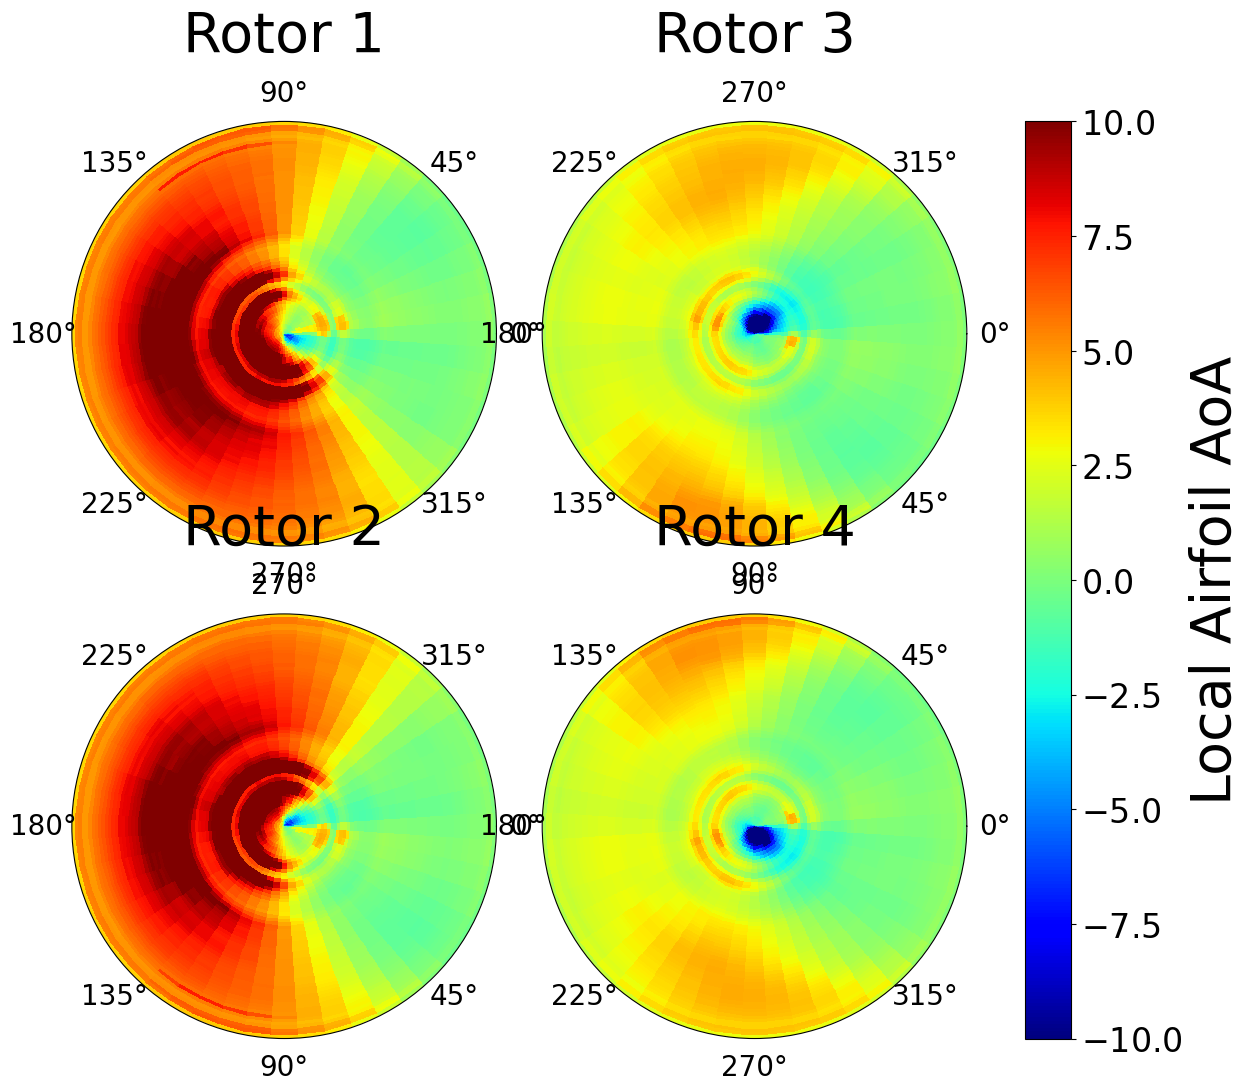
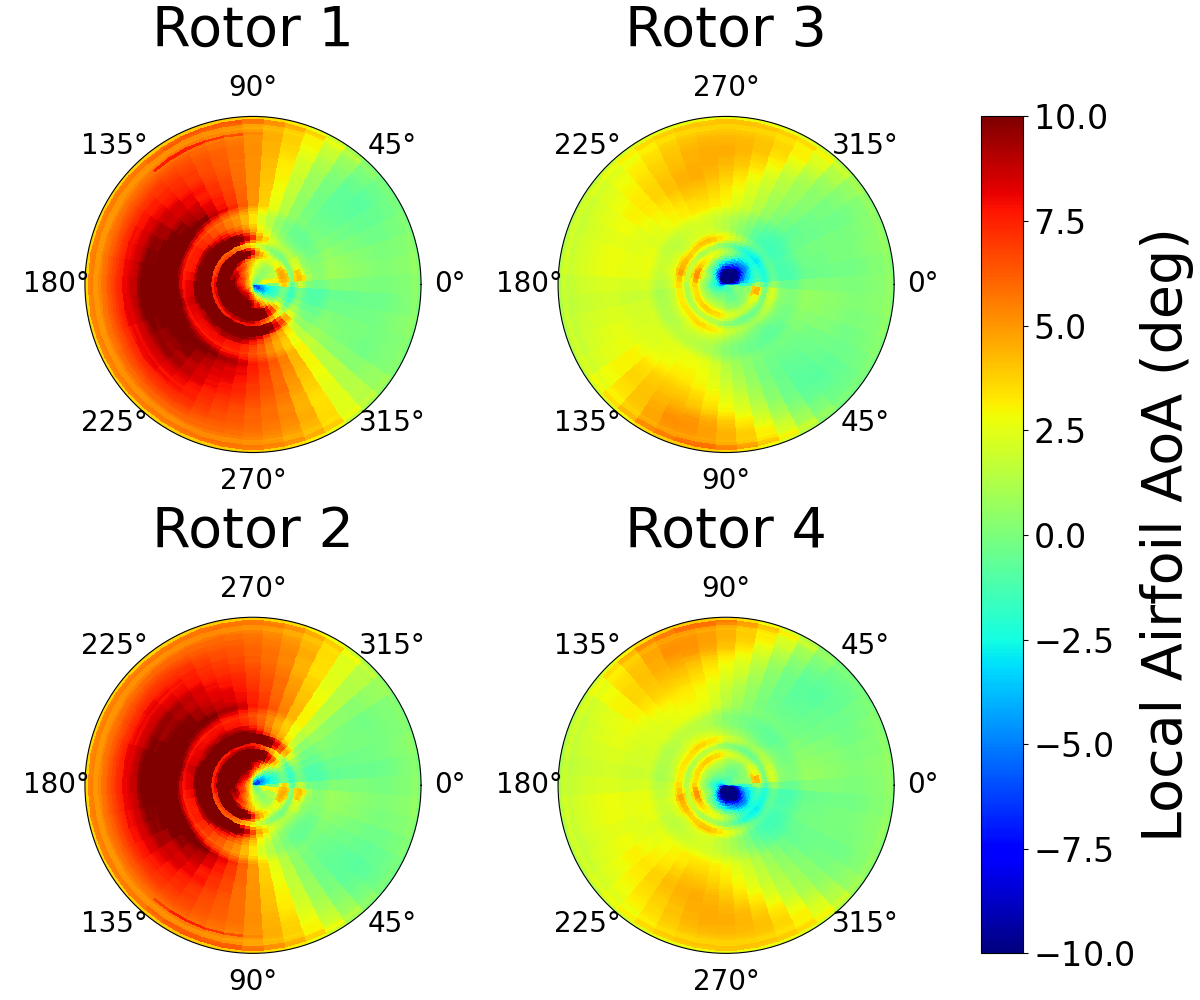
fixed polar spacing

diff --git a/perf_test.py b/perf_test.py
@@ -51,8 +51,8 @@ def plot_polar(psis, xs, polar_data, vmin, vmax, title=None, fname=None):
 
     # Create a 2x2 grid, specifying that all subplots are polar
     fig, axs = plt.subplots(2, 2, figsize=(12, 10), 
-                            subplot_kw={'projection': 'polar'})
-    fig.tight_layout()
+                            subplot_kw={'projection': 'polar'},
+                            layout='constrained')
     axs_flat = axs.flatten(order='F')
 
     mesh_objects = [] # Store plots to define colorbar later
@@ -102,7 +102,7 @@ def plot_polar(psis, xs, polar_data, vmin, vmax, title=None, fname=None):
 
     # plt.suptitle("Mean AoA Polar Distribution across Rotors", y=1.02, fontsize=14)
     if fname:
-        plt.savefig(fname, bbox_inches='tight')
+        plt.savefig(fname)
 
 # %%
 if __name__ == "__main__":
@@ -138,7 +138,7 @@ if __name__ == "__main__":
     var_ix = 14
     polar_aoa, psis, xs = read_perf(perf_file_path, NROTOR, NPSI, NX, MREV, var_ix)
     # visualize 
-    plot_polar(psis, xs, polar_aoa, -10, 10, title='Local Airfoil AoA', fname='outputs/polar_aoa.png')
+    plot_polar(psis, xs, polar_aoa, -10, 10, title='Local Airfoil AoA (deg)', fname='outputs/polar_aoa.png')
 
     var_ix = 15
     polar_mach, psis, xs = read_perf(perf_file_path, NROTOR, NPSI, NX, MREV, var_ix)
